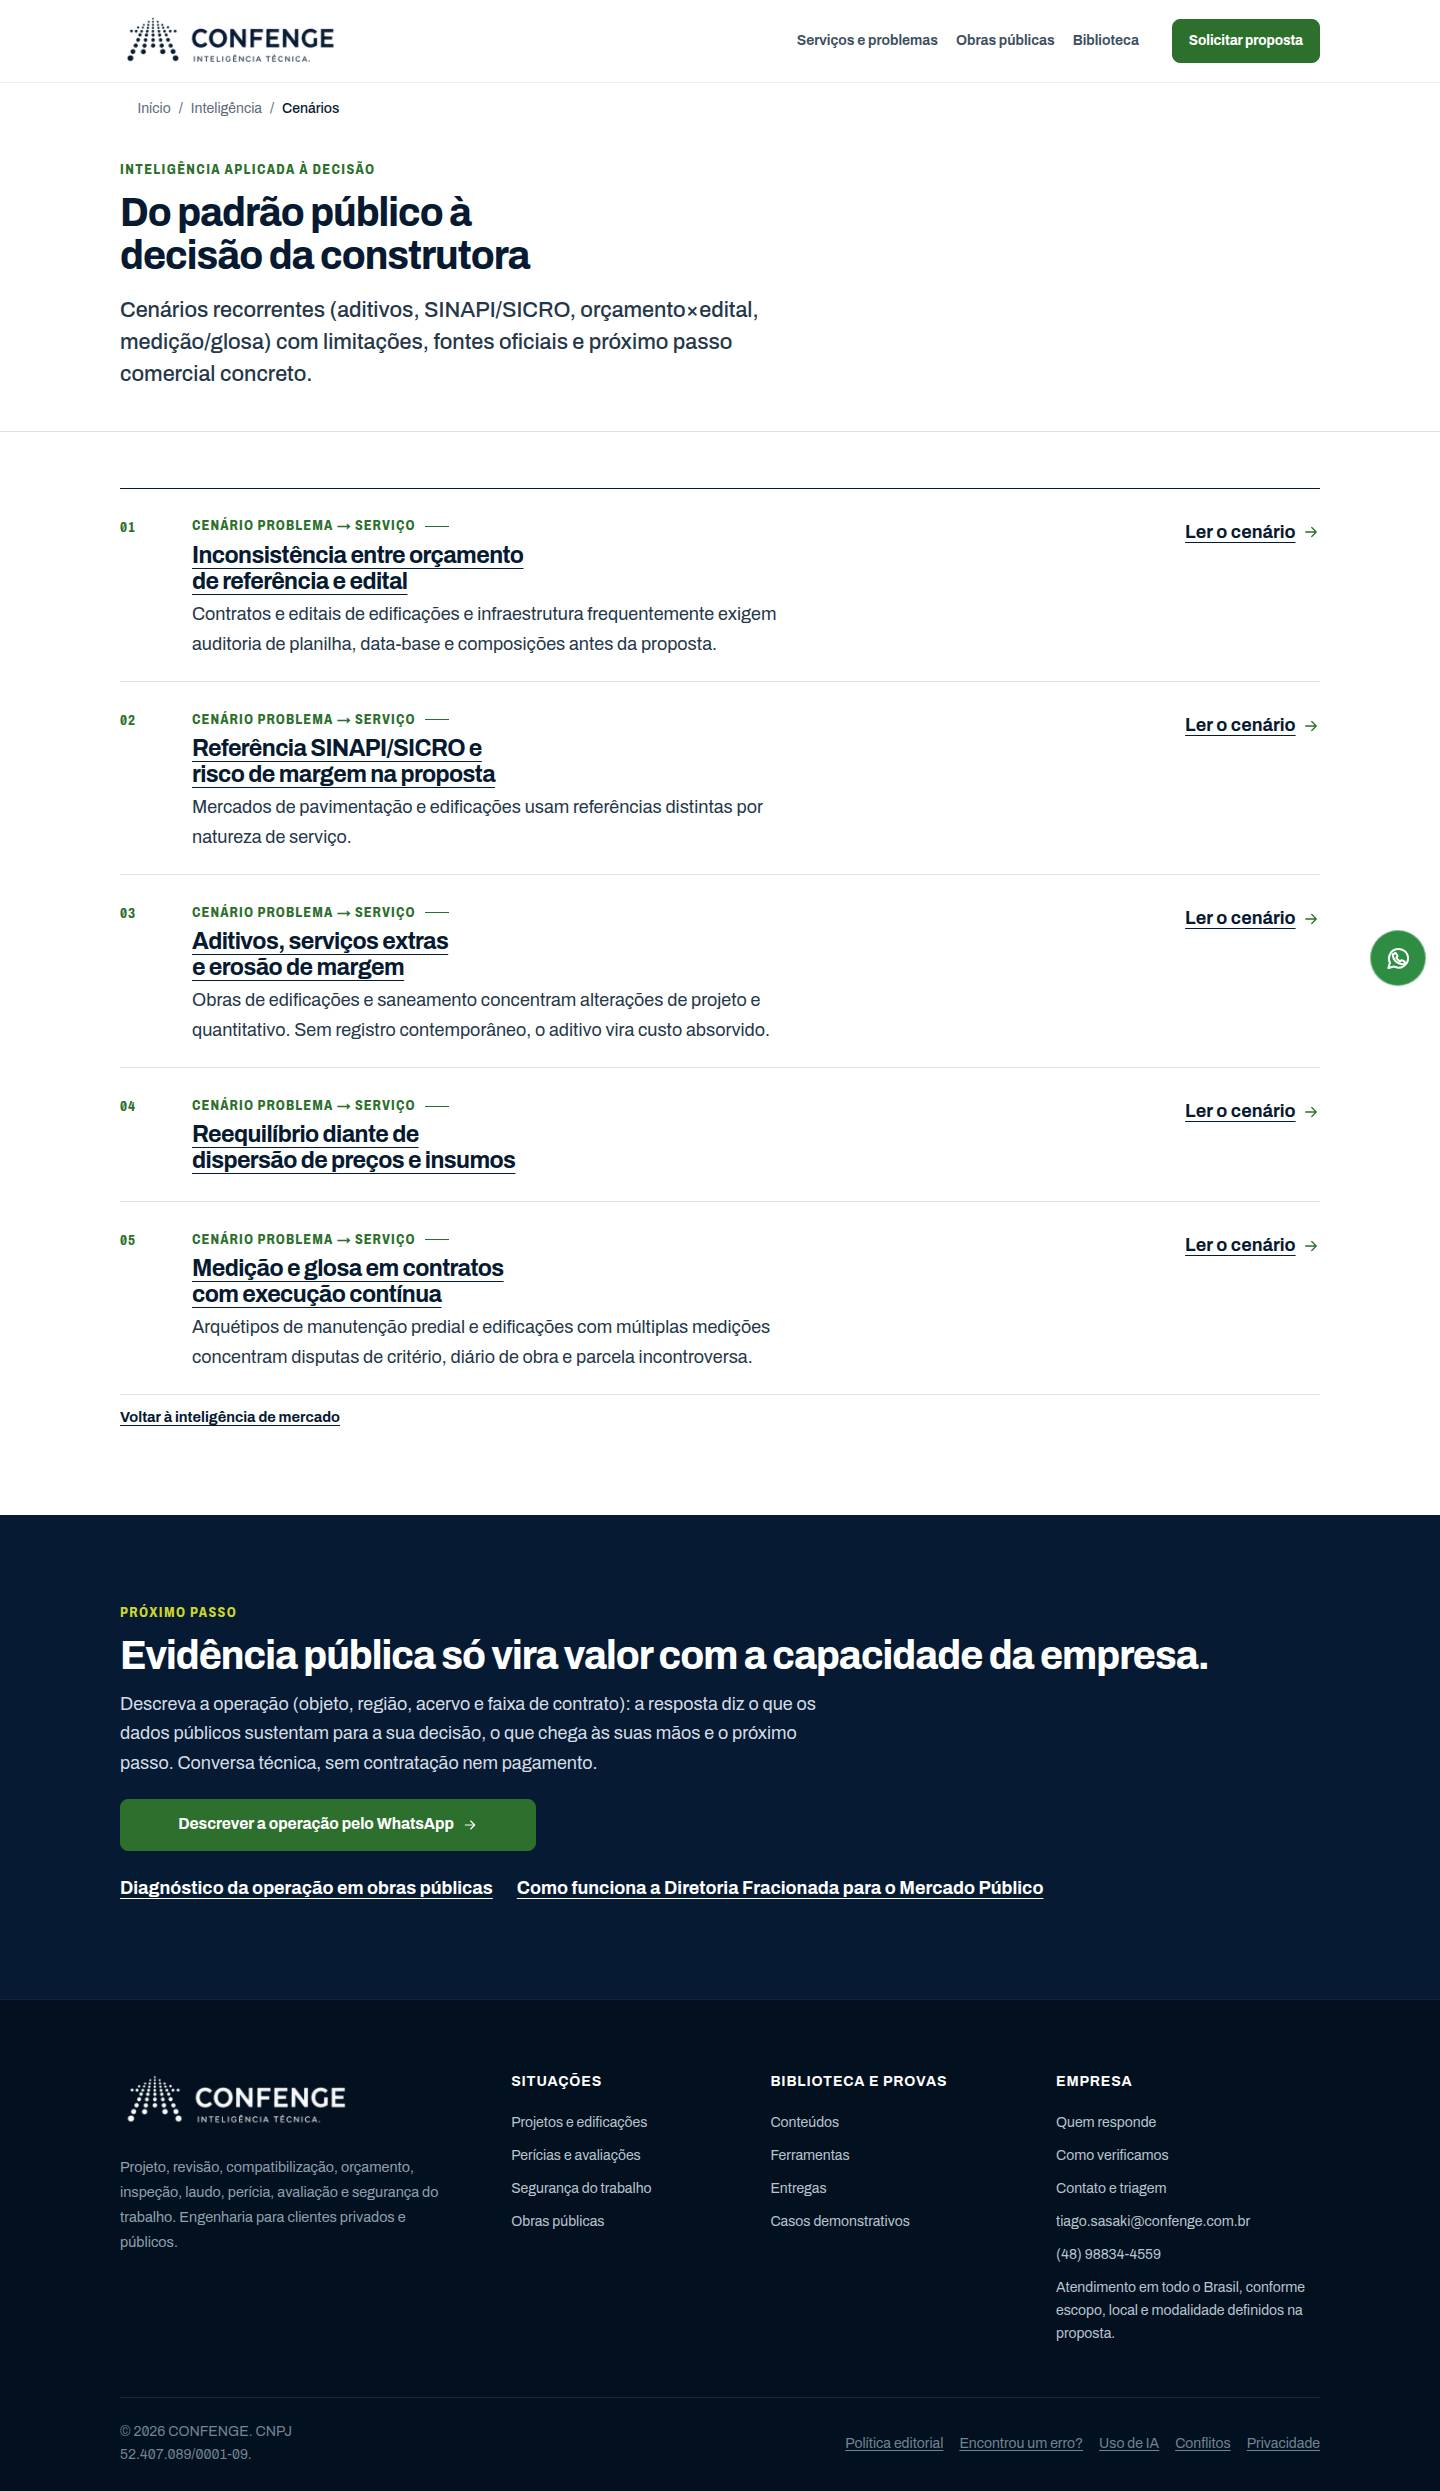
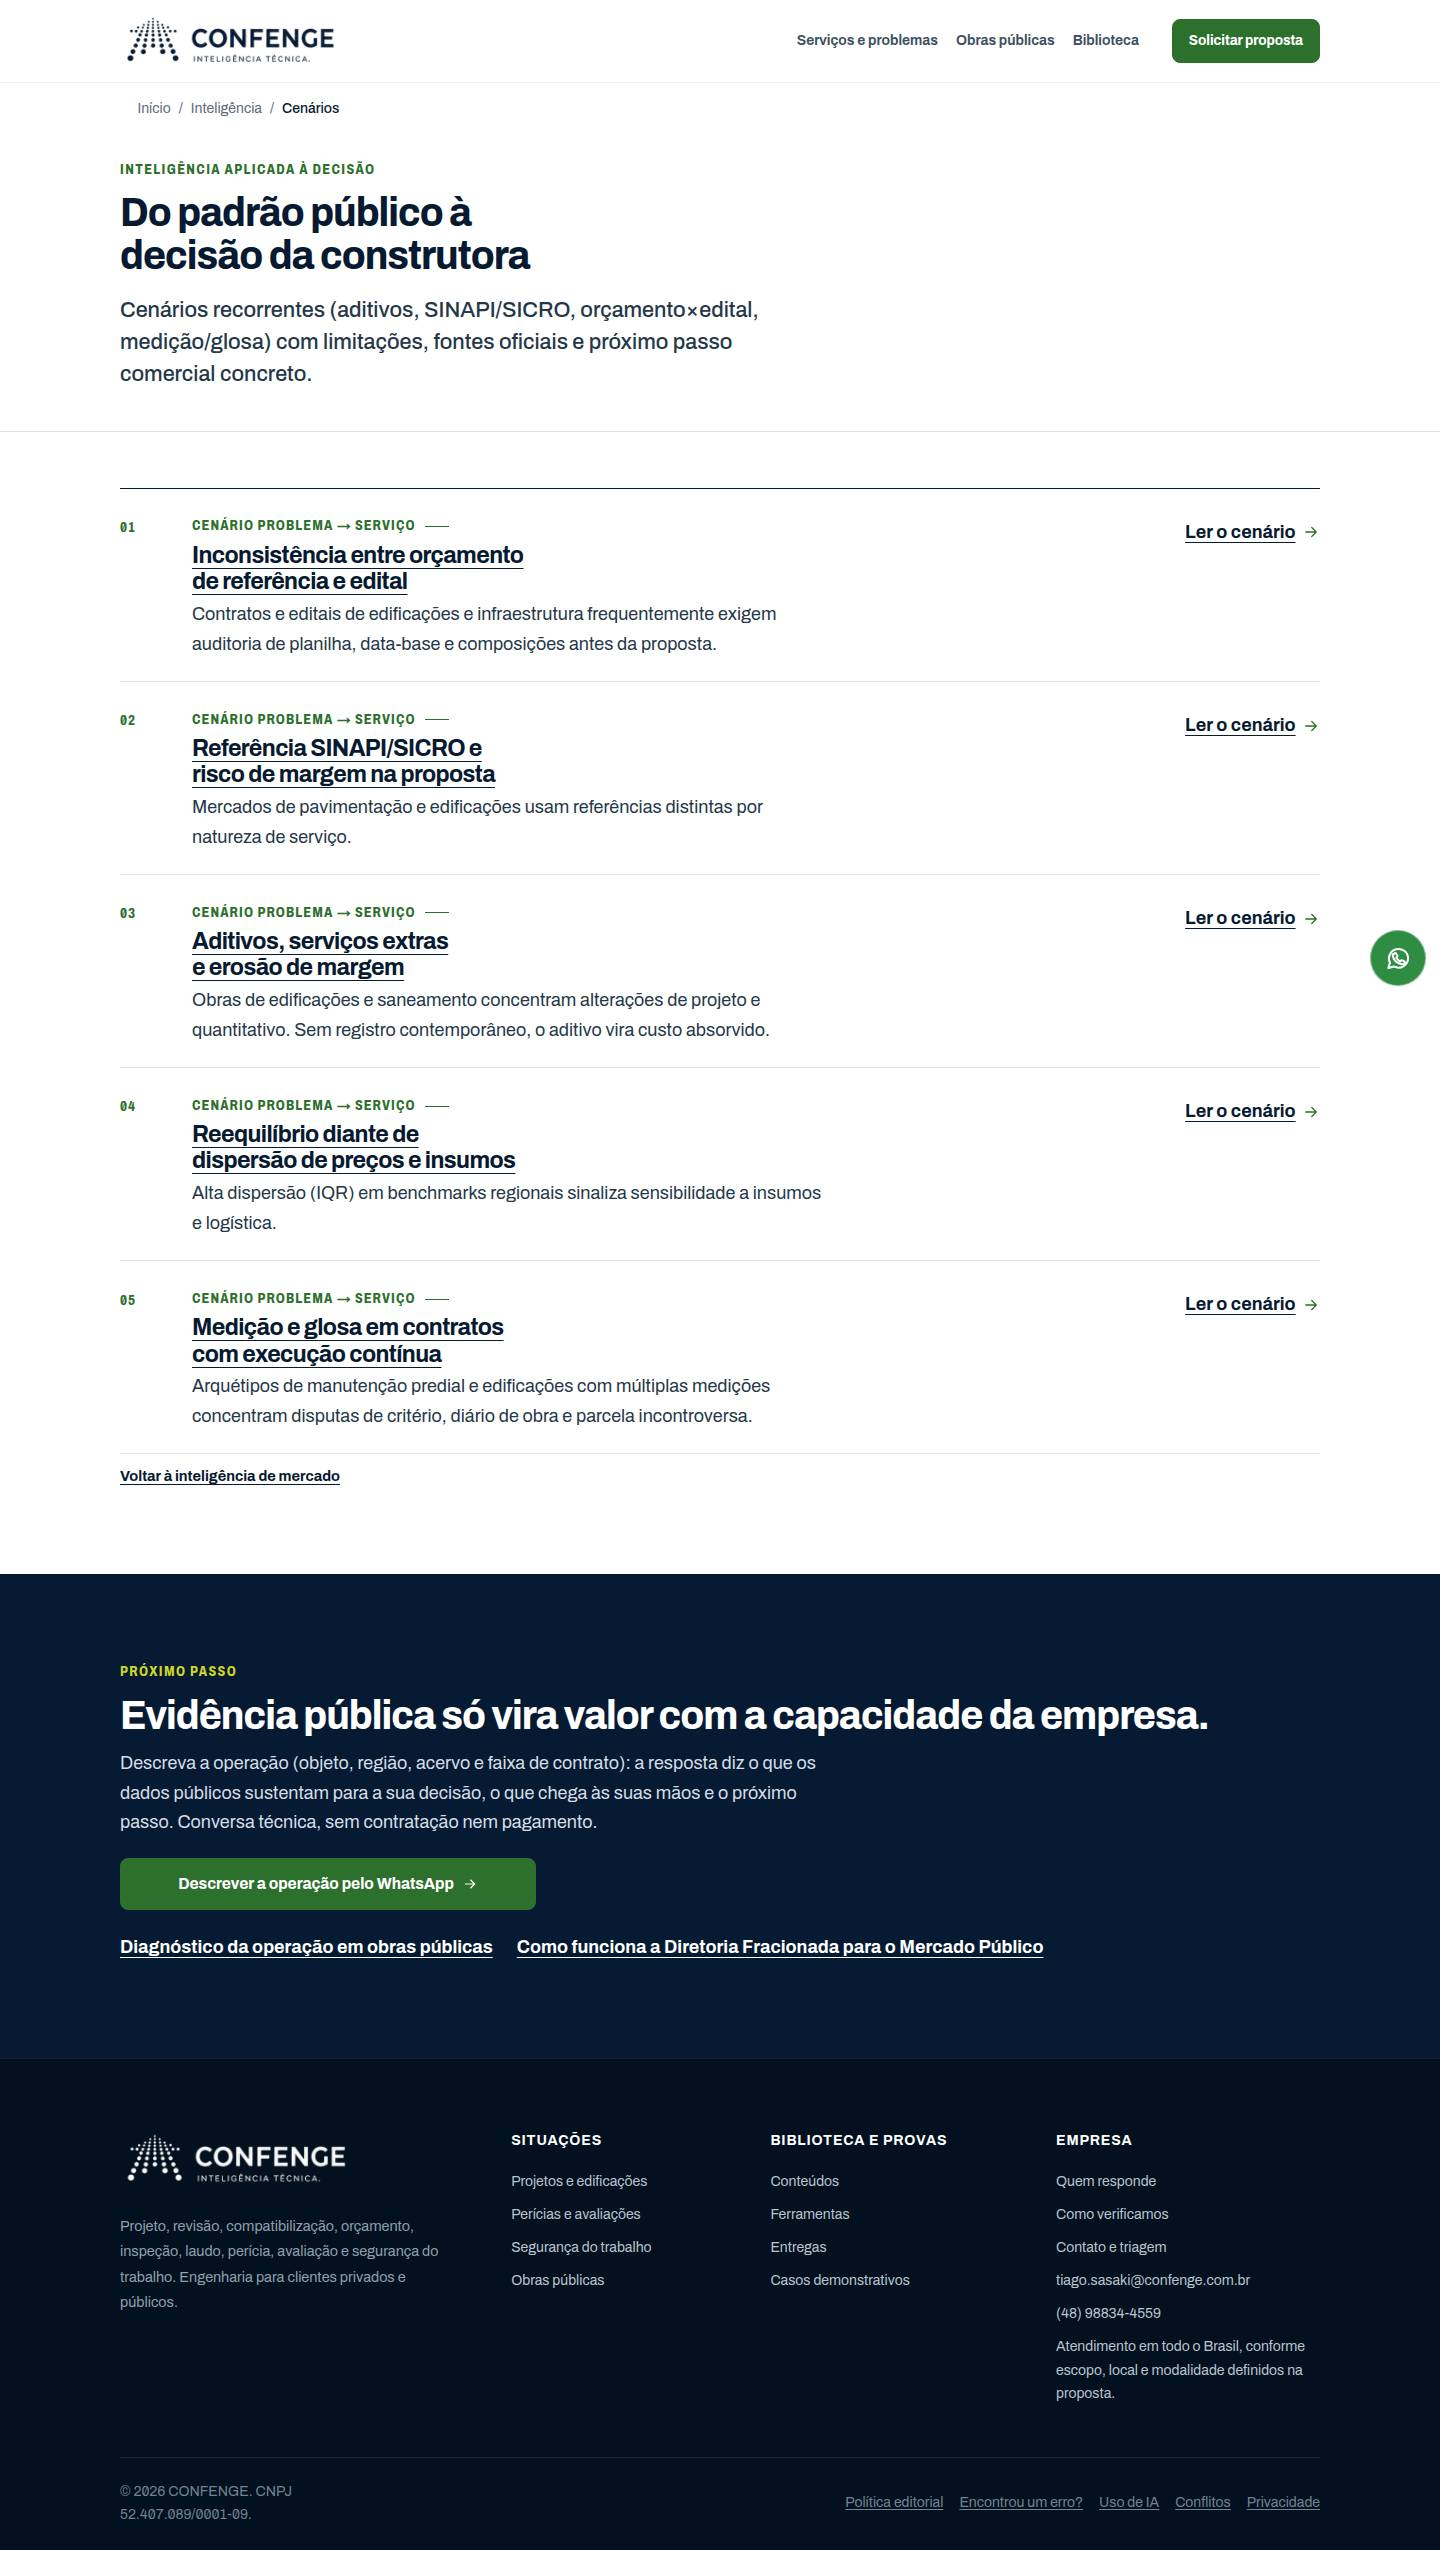
docs(design): relatório do lote C — dado estruturado derivado em /imprensa/, conferência mecânica dos subconjuntos, resumo do hub pSEO, gates adicionais (tools, hub-truth, validate:seo, indexation-evidence herdado) e evidência dos hubs pSEO sem filhos

diff --git a/docs/campaigns/design-institucional/expansao/relatorio-lote-c.md b/docs/campaigns/design-institucional/expansao/relatorio-lote-c.md
@@ -69,6 +69,9 @@ Base da rodada: rebase sobre `25c579584`, onde o integrador já aplicou os pedid
 | BAIXA diretório de `/conteudos/` truncado; link para `/entregas/` | Link renomeado "Ver entregas e condições". Diretório: descrições e filtros vêm do template do remediador/JS existente e das meta descriptions dos artigos (protegidas); não tratado. | — |
 | BAIXA índice sem número, rótulos "Resposta …", separadores da meta | `<span>NN</span>` só com a regra `.article-toc a span` (pedido 19); "Resposta executiva" → "Resposta direta" no pSEO (5 templates); "Resposta curta" só nos 5 artigos protegidos por hash; separadores: pedido 19. | `scripts/pseo/tests 210 passed`. |
 | PREFERENCIA ação dominante de `/casos/`, barra lima dos modelos | Mantido: inventário de CTAs por igualdade profunda (pedido 13); `report-model.css` é do integrador. | `CTA_FORM_NEXT_STATE_OK routes=31`. |
+| `/imprensa/`: dado estruturado acrescentado (eixo protegido) | A página ganhou trilha (`nav.breadcrumbs`); a casca é sincronizada por `scripts/site/shell_nav.py --write` (integrador), que deriva o `BreadcrumbList` da trilha, como em toda página com breadcrumb. Nenhum schema escrito à mão; `title`, `description`, canonical, robots e o `WebPage` existente intactos. | `test:nav 15 passed`; `validate:seo` → `errors=0 warnings=0 / VALIDATION_OK`. |
+| Conferência mecânica dos subconjuntos | Para cada página que liga `editorial-article.css`/`editorial-tool.css`, as classes usadas foram cruzadas com os blocos fora do subconjunto: 138 páginas no subconjunto Article e 3 no Tool sem seletor de bloco excluído, exceto `guias-contratos-obras/checklist-pedido-aditivo/` (bloco Tool do checklist interativo) → o gerador dá a folha inteira a página com `tool-shell`. `.tool-page-hero::after{content:none}` fica no bloco Article, mas não há regra `::after` em `styles-tools.css`/`styles.css` para a ferramenta (sem efeito). | Script de cruzamento no scratchpad; `guias-contratos-obras/checklist-pedido-aditivo/index.html` → `/assets/editorial.css`. |
+| Resumo vazio em linha do hub pSEO | `_hub_summary` cortava na última frase inteira e devolvia vazio quando a description truncada era uma oração só (`/inteligencia/cenarios/reequilibrio-e-dispersao-de-precos/`); agora corta na oração principal (travessão, ponto e vírgula, dois-pontos) e só omite se nada couber. | `inteligencia/index.html rows=6 summaries=6`; `inteligencia/cenarios/index.html rows=5 summaries=5`. |
 | Revisor 2: "proteger `/conteudos/` contra `inbound:remediate`" | `remediate_hub` devolve `skipped` quando encontra `svc-open` + `data-hub-search` + `hub-list` (`c2fe5434a`); o script não roda no CI. | `remediate_hub(load_brand())` → `{'skipped': …}` e bytes do hub inalterados; `test_visitor_redesign`/`test_inbound_gates` sem falha nova. |
 
 ### Refutações (com evidência)
@@ -111,6 +114,11 @@ Base da rodada: rebase sobre `25c579584`, onde o integrador já aplicou os pedid
 | `npm run test:contract-analysis` | `222 passed in 9.71s` |
 | `npm run test:demand-radar` | `84 passed in 1.14s` |
 | `npm run test:live-intelligence` | exit 0 |
+| `npm run test:tools` | `ALL tool/organic activation checks passed` |
+| `node scripts/site/test_tools_structure.mjs` | `ALL tools structure checks passed` |
+| `npm run test:hub-truth` | exit 0 (`PASS points_to_tools_or_radar`, `still_published_consolidar` informativo) |
+| `npm run validate:seo` | `errors=0 warnings=0` / `VALIDATION_OK` |
+| `python3 -m pytest scripts/site/test_indexation_evidence.py -q` | `2 failed, 30 passed` (`test_instance_verdict_ignores_the_governance_registry`, `test_archetype_verdict_is_composite…`: "no shipped route matches the predicate") — **idêntico na ponta da integração `25c579584` sem o lote** (worktree temporária), herdado. |
 | `node --test tests/intake/test_mv03_adaptive_intake.mjs` | `# pass 17 # fail 0` |
 | `npm run test:tools-uiux-e2e` | `ALL tools UIUX e2e checks passed` |
 | `npm run test:money-asset-canary-e2e` | `MONEY_ASSET_CANARY_E2E_OK` |
@@ -133,3 +141,5 @@ Base da rodada: rebase sobre `25c579584`, onde o integrador já aplicou os pedid
 - Diretório de `/conteudos/` (descrições truncadas, filtros fechados no celular) não tratado: descrições vêm das meta descriptions dos artigos e o bloco é o template existente com busca por JS.
 - Ação dominante de `/casos/` segue "Solicitar proposta" (inventário de CTAs, pedido 13).
 - Gates herdados da integração continuam vermelhos e são condição de merge do integrador, não do lote: canário 389 / `held_hash_18` (medições), `first-fold` (3 entradas), `audit:css-usage` (`border_radius`).
+- `docs/campaigns/design-institucional/expansao/tools/overflow-probe.mjs` é arquivo **adicionado** pelo lote na primeira rodada (`339d44467`), não alteração do `capture.mjs` do integrador.
+- Hubs pSEO sem filhos publicados (`/inteligencia/orgaos/`, `/precos/`, `/concorrencia/`; `noindex,follow` pelo gerador) renderizam abertura + bloco escuro, sem lista; capturas em `evidence/lote-c/inteligencia-{orgaos,precos,concorrencia}-*`.
